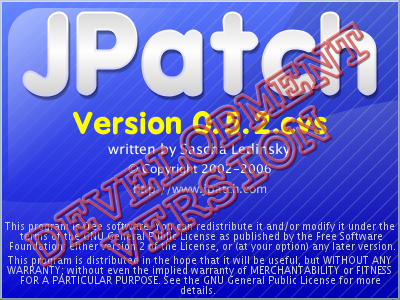
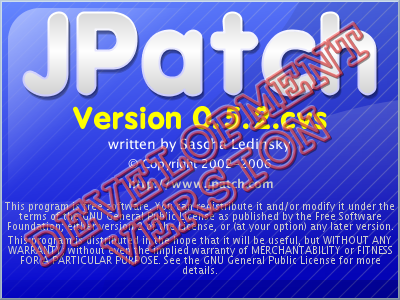
*** empty log message ***

Changed region(s): [[0.0, 0.33, 1.0, 1.0]]

diff --git a/jpatch/src/utilities/LogoMaker.java b/jpatch/src/utilities/LogoMaker.java
@@ -148,7 +148,7 @@ public class LogoMaker {
 		gv = font.createGlyphVector(frc, "Version " + VersionInfo.ver);
 		shape = gv.getOutline();
 		bounds = shape.getBounds();
-		at = new AffineTransform(1, 0, 0, 1, (400 - bounds.width) / 2, bounds.height + 110);
+		at = new AffineTransform(1, 0, 0, 1, (400 - bounds.width) / 2, bounds.height + 105);
 		g2.setColor(new Color(0xffff00));
 		shape = at.createTransformedShape(gv.getOutline());
 		g2.fill(shape);
@@ -160,7 +160,7 @@ public class LogoMaker {
 		gv = font.createGlyphVector(frc, "written by Sascha Ledinsky");
 		shape = gv.getOutline();
 		bounds = shape.getBounds();
-		at = new AffineTransform(1, 0, 0, 1, (400 - bounds.width) / 2, bounds.height + 140);
+		at = new AffineTransform(1, 0, 0, 1, (400 - bounds.width) / 2, bounds.height + 135);
 		g2.setColor(new Color(0xffffff));
 		shape = at.createTransformedShape(gv.getOutline());
 		g2.fill(shape);
@@ -172,36 +172,36 @@ public class LogoMaker {
 		gv = font.createGlyphVector(frc, "© Copyright 2002-2006");
 		shape = gv.getOutline();
 		bounds = shape.getBounds();
-		at = new AffineTransform(1, 0, 0, 1, (400 - bounds.width) / 2, bounds.height + 160);
+		at = new AffineTransform(1, 0, 0, 1, (400 - bounds.width) / 2, bounds.height + 155);
 		g2.setColor(new Color(0xffffff));
 		shape = at.createTransformedShape(gv.getOutline());
 		g2.fill(shape);
 		
 		
 		/*
-		 * Copyright
+		 * url
 		 */
-		font = new Font("Sans Serif", Font.PLAIN, 12);
+		font = new Font("Sans Serif", Font.BOLD, 12);
 		gv = font.createGlyphVector(frc, "http://www.jpatch.com");
 		shape = gv.getOutline();
 		bounds = shape.getBounds();
-		at = new AffineTransform(1, 0, 0, 1, (400 - bounds.width) / 2, bounds.height + 180);
+		at = new AffineTransform(1, 0, 0, 1, (400 - bounds.width) / 2, bounds.height + 175);
 		g2.setColor(new Color(0xcccccc));
 		shape = at.createTransformedShape(gv.getOutline());
 		g2.fill(shape);
 		
-		
+		int y = -20;
 		g2.setColor(new Color(0xcccccc));
 //		g2.setRenderingHint(RenderingHints.KEY_ANTIALIASING, RenderingHints.VALUE_ANTIALIAS_OFF);
 		g2.setRenderingHint(RenderingHints.KEY_FRACTIONALMETRICS, RenderingHints.VALUE_FRACTIONALMETRICS_OFF);
 		g2.setFont(new Font("Sans Serif", Font.PLAIN, 10));
-		g2.drawString("This program is free software. You can redistribute it and/or modify it under the", 5, 230);
-		g2.drawString("terms of the GNU General Public License as published by the Free Software", 20, 240);
-		g2.drawString("Foundation; either version 2 of the License, or (at your option) any later version.", 9, 250);
-		g2.drawString("This program is distributed in the hope that it will be useful, but WITHOUT ANY", 8, 264);
-		g2.drawString("WARRANTY; without even the implied warranty of MERCHANTABILITY or FITNESS", 7, 274);
-		g2.drawString("FOR A PARTICULAR PURPOSE. See the GNU General Public License for more", 20, 284);
-		g2.drawString("details.", 180, 294);
+		drawCenteredString(g2, "This program is free software. You can redistribute it and/or modify it under the", 230 + y);
+		drawCenteredString(g2, "terms of the GNU General Public License as published by the Free Software", 240 + y);
+		drawCenteredString(g2, "Foundation; either version 2 of the License, or (at your option) any later version.", 250 + y);
+		drawCenteredString(g2, "This program is distributed in the hope that it will be useful, but WITHOUT ANY", 264 + y);
+		drawCenteredString(g2, "WARRANTY; without even the implied warranty of MERCHANTABILITY or FITNESS", 274 + y);
+		drawCenteredString(g2, "FOR A PARTICULAR PURPOSE. See the GNU General Public License for more", 284 + y);
+		drawCenteredString(g2, "details.", 294 + y);
 //		/*
 //		 * Copyright
 //		 */
@@ -316,6 +316,8 @@ public class LogoMaker {
 			g2.draw(shape);
 		}
 		
+		g2.setPaint(new GradientPaint(0, 0, new Color(0x11000000, true), 399, 0, new Color(0x33000000, true)));
+		g2.fillRect(0, 280, 400, 20);
 		
 		g2.setStroke(new BasicStroke(1.0f, BasicStroke.CAP_ROUND, BasicStroke.JOIN_ROUND));
 		g2.setPaint(new GradientPaint(0, 0, new Color(0xbbccdd), 0, 299, new Color(0x99aabb)));
@@ -331,5 +333,10 @@ public class LogoMaker {
 		g2.drawLine(1, 298, 398, 298);
 		g2.drawLine(398, 1, 398, 298);
 		return image;
+	}
+	
+	private static void drawCenteredString(Graphics2D g2, String text, int y) {
+		int w = g2.getFontMetrics().charsWidth(text.toCharArray(), 0, text.length()) >> 1;
+		g2.drawString(text, 200 - w, y);
 	}
 }

diff --git a/jpatch/src/jpatch/boundary/SplashScreen.java b/jpatch/src/jpatch/boundary/SplashScreen.java
@@ -1,5 +1,5 @@
 /*
- * $Id: SplashScreen.java,v 1.9 2006/04/25 20:24:26 sascha_l Exp $
+ * $Id: SplashScreen.java,v 1.10 2006/04/26 08:02:50 sascha_l Exp $
  *
  * Copyright (c) 2005 Sascha Ledinsky
  *
@@ -151,14 +151,14 @@ public class SplashScreen {
 				public void paint(Graphics g) {
 					g.drawImage(image, 0, 0, null);
 					if (text != null) {
-						((Graphics2D) g).setRenderingHint(RenderingHints.KEY_ANTIALIASING, RenderingHints.VALUE_ANTIALIAS_ON);
+//						((Graphics2D) g).setRenderingHint(RenderingHints.KEY_ANTIALIASING, RenderingHints.VALUE_ANTIALIAS_ON);
 						int i = g.getFontMetrics().charsWidth(text.toCharArray(), 0, text.length()) >> 1;
 						int h = g.getFontMetrics().getHeight();
-						int y = 30;
-						g.setColor(new Color(0x66444400, true));
-						g.fillRect(200 - i - 8, y - h, 2 * i + 16, h + 6);
-						g.setColor(Color.YELLOW);
-						g.drawRect(200 - i - 8, y - h, 2 * i + 16, h + 6);
+						int y = 292;
+//						g.setColor(new Color(0x66444400, true));
+//						g.fillRect(200 - i - 8, y - h, 2 * i + 16, h + 6);
+						g.setColor(Color.LIGHT_GRAY);
+//						g.drawRect(200 - i - 8, y - h, 2 * i + 16, h + 6);
 						g.drawString(text, 200 - i, y);
 					}
 				}
@@ -184,7 +184,7 @@ public class SplashScreen {
 		if (window != null)
 			window.repaint();
 //		try {
-//			Thread.sleep(100);
+//			Thread.sleep(1000);
 //		} catch (Exception e) { }
 	}
 	

diff --git a/jpatch/src/jpatch/boundary/MainFrame.java b/jpatch/src/jpatch/boundary/MainFrame.java
@@ -218,7 +218,7 @@ public final class MainFrame extends JFrame {
 			//meshToolBar.setFloatable(false);
 			
 			if (SplashScreen.instance != null)
-				SplashScreen.instance.setText("Initializing...");
+				SplashScreen.instance.setText("Initializing");
 			
 			initTree(model);
 			sideBar = new SideBar(tree);
